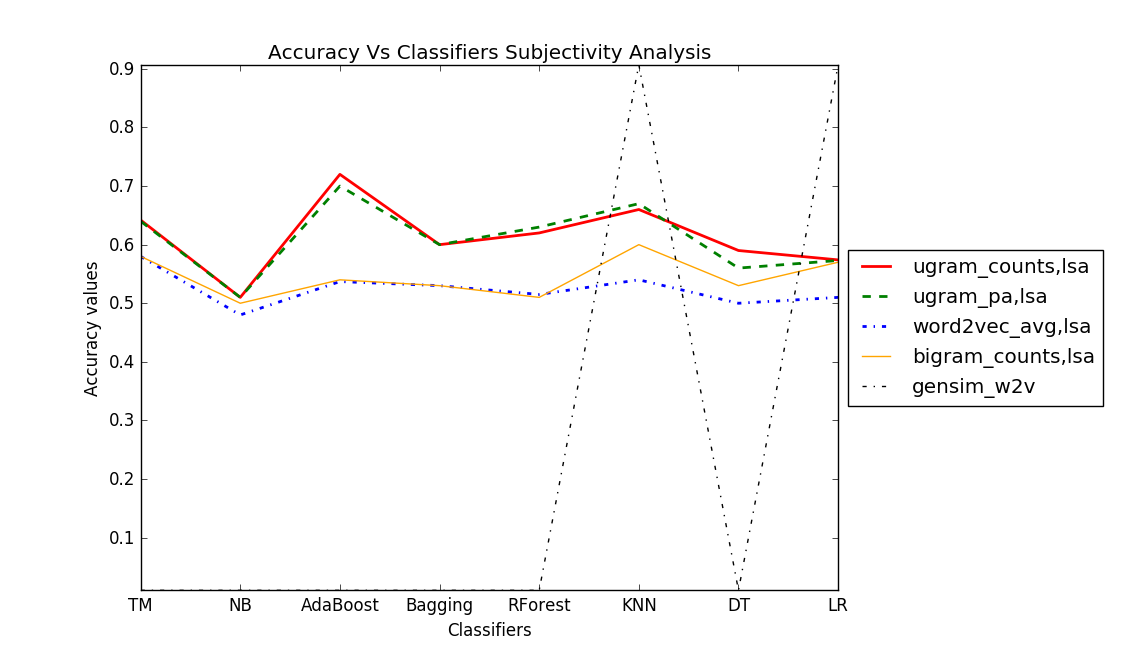
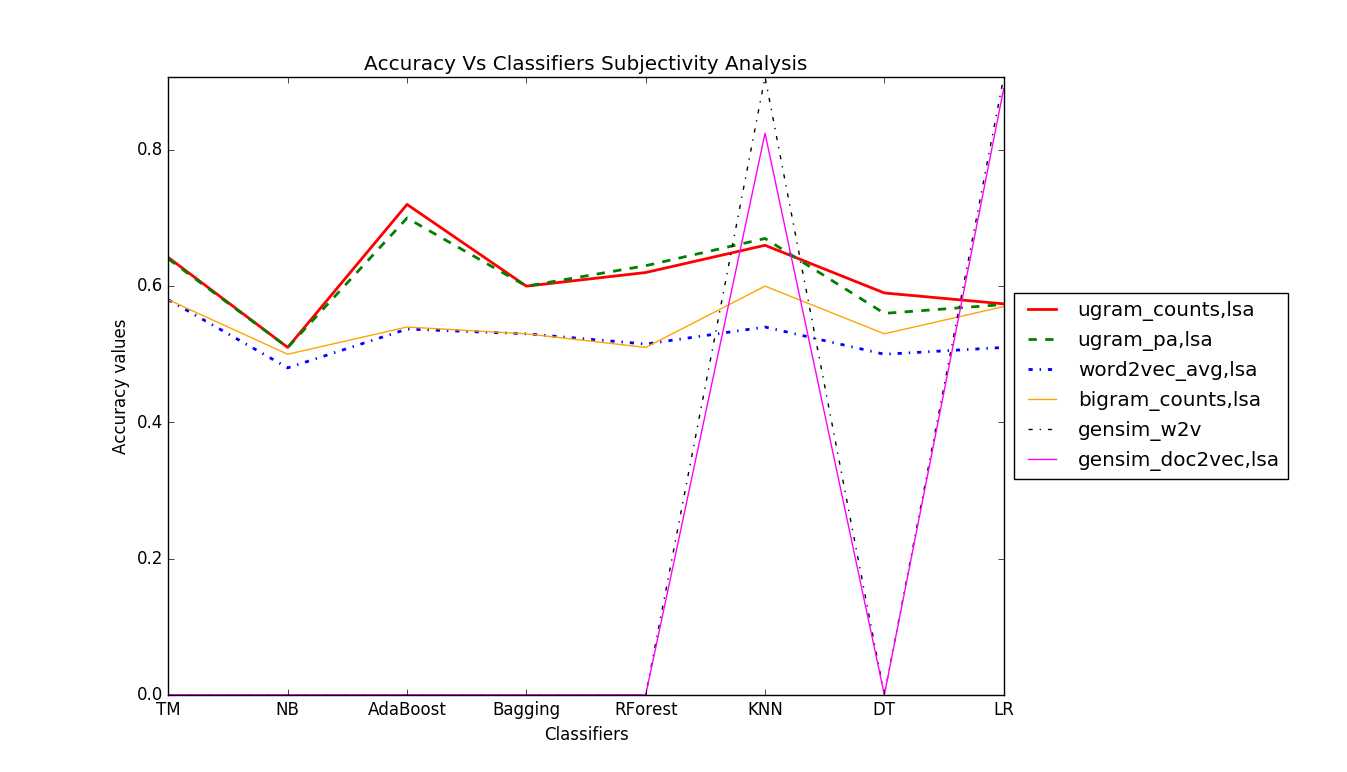
updated doc2vec plots

diff --git a/src/NeatPlots.py b/src/NeatPlots.py
@@ -31,7 +31,7 @@ def line_plots(**kwargs):
         plt.plot(x,gensim_w2v,color='black',linestyle='-.',label='gensim_w2v')
     if 'gensim_d2v' in keys_:
         gensim_w2v=kwargs.pop('gensim_d2v')
-        plt.plot(x,gensim_d2v,color='brown',linestyle='--',label='gensim_doc2vec,lsa')
+        plt.plot(x,gensim_d2v,color='magenta',linestyle='-',label='gensim_doc2vec,lsa')
     
     # plt.legend(bbox_to_anchor=(0., 1.02, 1., .102), loc=5, ncol=3, mode="expand", borderaxespad=0.)
     plt.legend(loc='center left', bbox_to_anchor=(1, 0.5))
@@ -62,8 +62,8 @@ ugram_counts=[0.642,0.51,0.72,0.6,0.62,0.66,0.59,0.574]
 ugrams_pa=[0.64,0.51,0.7,0.6,0.63,0.67,0.56,0.573]
 word2vec=[0.58,0.48,0.537,0.53,0.515,0.54,0.5,0.51]
 bigrams=[0.58,0.5,0.54,0.53,0.51,0.6,0.53,0.57]
-gensim_w2v=[0.01, 0.01, 0.01, 0.01, 0.01, 0.907092907093, 0.01, 0.906593406593];
-# gensim_d2v=[];
+gensim_w2v=[0, 0, 0, 0, 0, 0.907092907093, 0, 0.906593406593];
+gensim_d2v=[0, 0, 0, 0, 0, 0.8245, 0, 0.89];
 
 stats_dict={};
 stats_dict['results_dir']='../results/'
@@ -74,7 +74,7 @@ stats_dict['ugrams_pa']=ugrams_pa;
 stats_dict['word2vec']=word2vec;
 stats_dict['bigrams']=bigrams;
 stats_dict['gensim_w2v']=gensim_w2v;
-# stats_dict['gensim_d2v']=gensim_d2v;
+stats_dict['gensim_d2v']=gensim_d2v;
 line_plots(**stats_dict);         
 
 
@@ -84,7 +84,7 @@ ugrams_pa=[0.64,0.51,0.75,0.6,0.63,0.67,0.56,0.573]
 word2vec=[0.58,0.48,0.537,0.53,0.515,0.54,0.5,0.51]
 bigrams=[0.58,0.5,0.54,0.53,0.51,0.6,0.53,0.57]
 gensim_w2v=[0, 0, 0, 0, 0, 0.75, 0, 0.8625];
-# gensim_d2v=[];
+gensim_d2v=[0, 0, 0, 0, 0, 0.7575, 0, 0.865];
 
 stats_dict={};
 stats_dict['results_dir']='../results/'
@@ -95,7 +95,7 @@ stats_dict['ugrams_pa']=ugrams_pa;
 stats_dict['word2vec']=word2vec;
 stats_dict['bigrams']=bigrams;
 stats_dict['gensim_w2v']=gensim_w2v;
-# stats_dict['gensim_d2v']=gensim_d2v;
+stats_dict['gensim_d2v']=gensim_d2v;
 line_plots(**stats_dict);         
 
 
